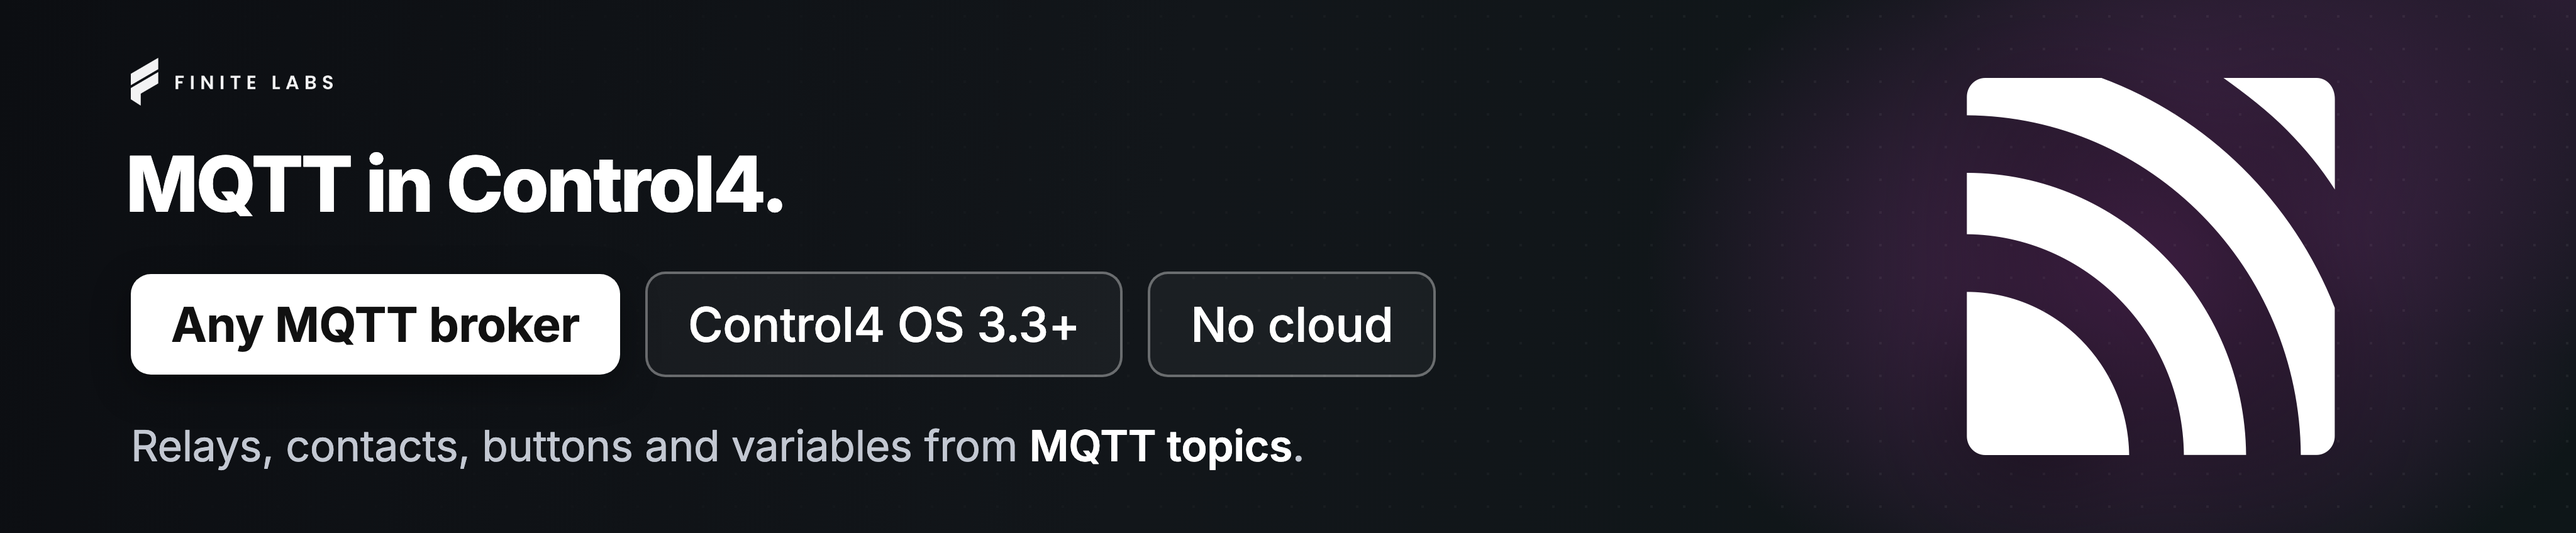
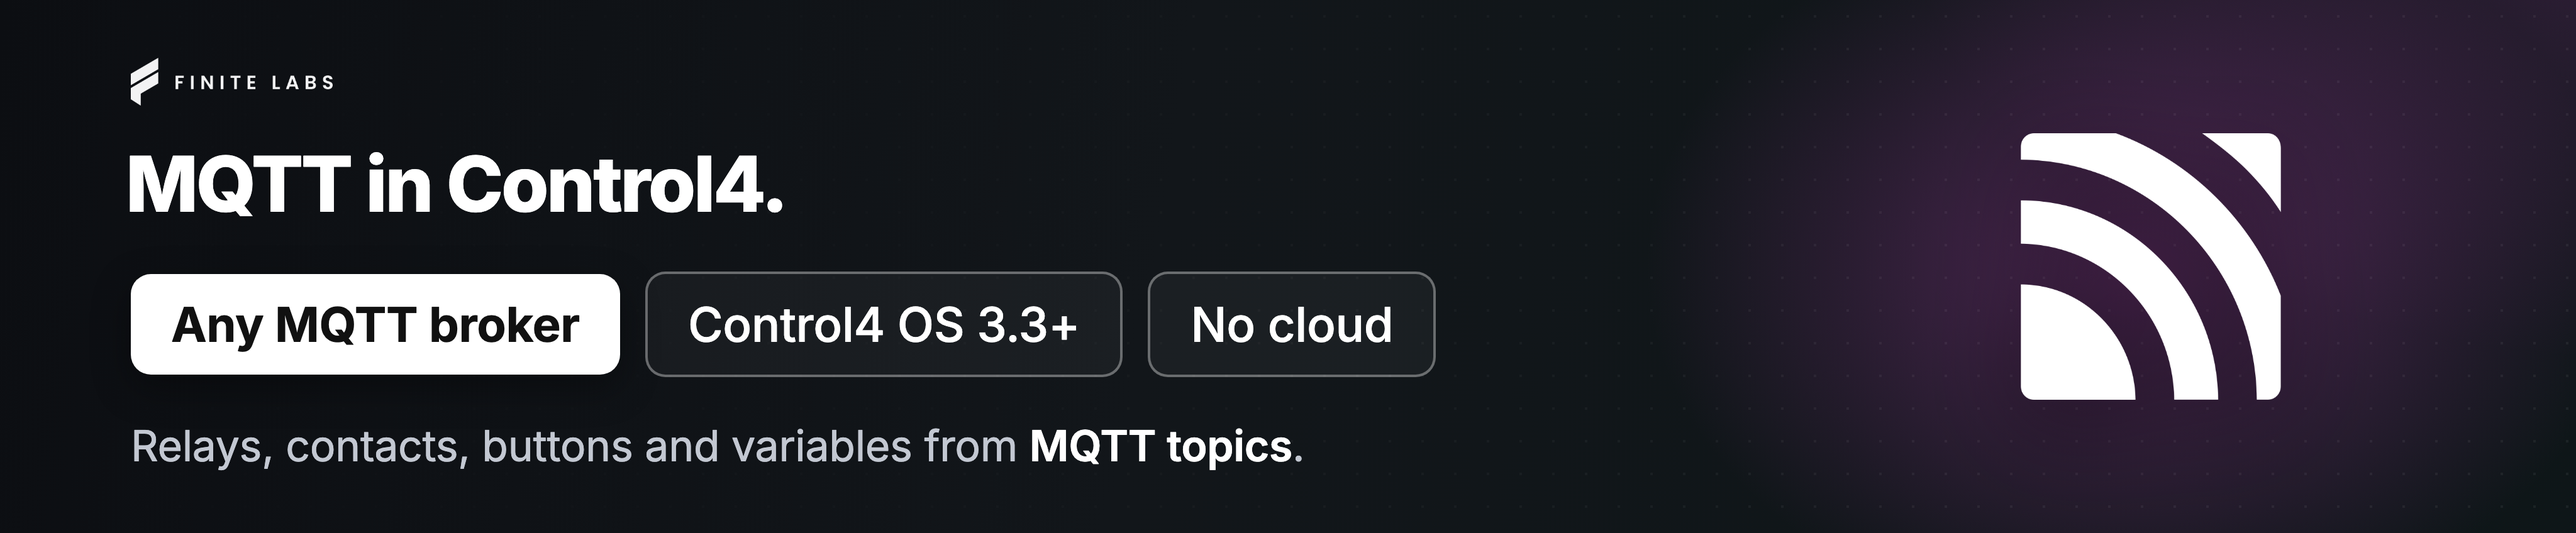
chore: the spotlight and launch-post mark is sized to match the other drivers'

Changed region(s): [[0.75, 0.1226, 0.9062, 0.8585]]

diff --git a/resources/drivercentral/banners/spotlight-4096x848.html b/resources/drivercentral/banners/spotlight-4096x848.html
@@ -20,7 +20,7 @@
   .chip.line { color: #fff; border: 2px solid rgba(255,255,255,0.35); background: rgba(255,255,255,0.04); font-weight: 500; }
   .sub { position: absolute; left: 104px; top: 334px; color: #c3c8d2; font-size: 34px; font-weight: 400; letter-spacing: -0.005em; white-space: nowrap; }
   .sub em { font-style: normal; color: #fff; font-weight: 600; }
-  .mark { position: absolute; left: 1560px; top: 62px; width: 300px; height: 300px; object-fit: contain; filter: drop-shadow(0 18px 40px rgba(0,0,0,0.45)); }
+  .mark { position: absolute; left: 1606px; top: 106px; width: 208px; height: 212px; object-fit: contain; filter: drop-shadow(0 18px 40px rgba(0,0,0,0.45)); }
 </style></head>
 <body>
 <div class="dots"></div>

diff --git a/resources/drivercentral/banners/launch-post-2400x1200.html b/resources/drivercentral/banners/launch-post-2400x1200.html
@@ -21,7 +21,7 @@
   .chip.line { color: #fff; border: 1.5px solid rgba(255,255,255,0.35); background: rgba(255,255,255,0.04); font-weight: 500; }
   .sub { margin: 32px 0 0 2px; color: #c3c8d2; font-size: 24px; line-height: 1.4; font-weight: 400; letter-spacing: -0.005em; }
   .sub em { font-style: normal; color: #fff; font-weight: 600; }
-  .mark { position: absolute; left: 814px; top: 180px; width: 240px; height: 240px; object-fit: contain; filter: drop-shadow(0 14px 32px rgba(0,0,0,0.45)); }
+  .mark { position: absolute; left: 851px; top: 215px; width: 166px; height: 170px; object-fit: contain; filter: drop-shadow(0 14px 32px rgba(0,0,0,0.45)); }
 </style></head>
 <body>
 <div class="dots"></div>
